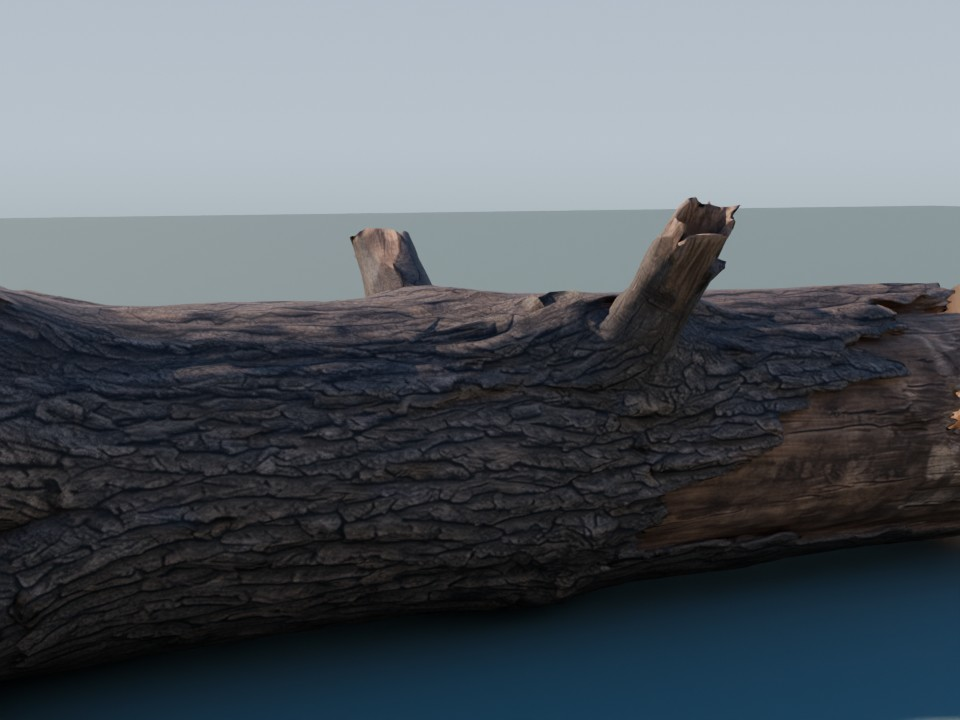
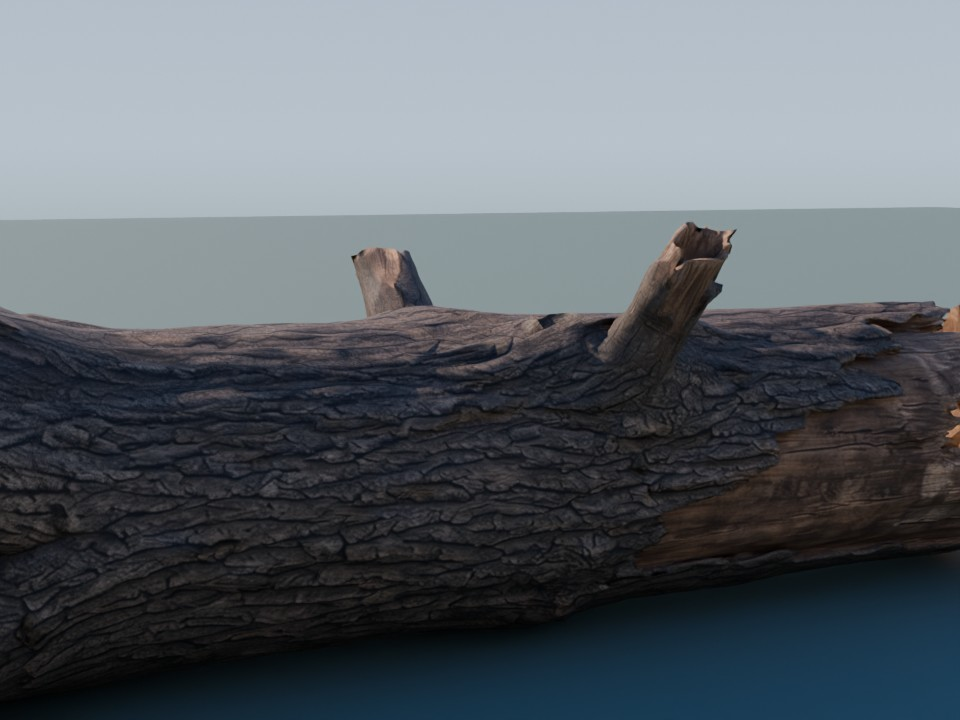
Refine fallen-log end cores

diff --git a/assets/vegetation/log_fallen_a/build.py b/assets/vegetation/log_fallen_a/build.py
@@ -9,7 +9,8 @@ deterministisch aus dem gepinnten Meshy-Rohmodell ableitbar.
 import os
 
 import bpy
-from mathutils import Matrix
+import bmesh
+from mathutils import Matrix, Vector
 import vrmeshy
 import vrmeshfix
 
@@ -29,6 +30,105 @@ def _stretch_x(objs, factor):
     bpy.ops.object.transform_apply(location=True, rotation=True, scale=True)
 
 
+def _seal_plug_center(plug, axis, sign, segments):
+    """Close the tiny centre triangle and sector-boundary gaps of a cavity plug.
+
+    make_cavity_plug uses three off-centre knot vertices for relief.  Without
+    these few bridge faces the fan leaves narrow triangular gaps that read as
+    exactly the black holes the gate criticised.  Kept asset-local so the other
+    already reviewed repair sheets remain hash-stable.
+    """
+    if plug is None:
+        return
+    bm = bmesh.new()
+    bm.from_mesh(plug.data)
+    verts = list(bm.verts)
+    need = 2 * segments + 3
+    if len(verts) >= need:
+        ring0 = segments
+        centers = [verts[2 * segments + k] for k in range(3)]
+
+        def ring(j):
+            return verts[ring0 + (j % segments)]
+
+        def assignment(j):
+            return ((j * 3) // segments) % 3
+
+        new_faces = []
+        for j in range(segments):
+            prev_k = assignment((j - 1) % segments)
+            cur_k = assignment(j)
+            if cur_k != prev_k:
+                try:
+                    new_faces.append(bm.faces.new((ring(j), centers[prev_k], centers[cur_k])))
+                except ValueError:
+                    pass
+        try:
+            new_faces.append(bm.faces.new(tuple(centers)))
+        except ValueError:
+            pass
+        uv_layer = bm.loops.layers.uv.active
+        if uv_layer is not None:
+            for f in new_faces:
+                for loop in f.loops:
+                    loop[uv_layer].uv = Vector((0.48, 0.48))
+        desired = Vector((0.0, 0.0, 0.0))
+        desired[axis] = float(sign)
+        for f in bm.faces:
+            if f.normal.dot(desired) < 0.0:
+                f.normal_flip()
+    bm.to_mesh(plug.data)
+    plug.data.update()
+    bm.free()
+
+
+def _retexture_plug_endgrain(plug, axis, segments, uv_center=(0.664, 0.707), uv_radius=0.030):
+    """Map the planar plug coherently onto a light fibrous wood patch of the atlas."""
+    if plug is None:
+        return
+    bm = bmesh.new()
+    bm.from_mesh(plug.data)
+    uv_layer = bm.loops.layers.uv.active
+    if uv_layer is not None and len(bm.verts) >= 2 * segments:
+        verts = list(bm.verts)
+        other = [i for i in range(3) if i != axis]
+        outer = [v.co for v in verts[:segments]]
+        center = sum((Vector((c[other[0]], c[other[1]])) for c in outer), Vector((0.0, 0.0))) / len(outer)
+        maxr = max(((Vector((c[other[0]], c[other[1]])) - center).length for c in outer), default=1.0)
+        for f in bm.faces:
+            for loop in f.loops:
+                co = loop.vert.co
+                d = (Vector((co[other[0]], co[other[1]])) - center) / max(maxr, 1e-6)
+                loop[uv_layer].uv = Vector(uv_center) + d * uv_radius
+    bm.to_mesh(plug.data)
+    plug.data.update()
+    bm.free()
+
+
+def _roughen_plug(plug, axis, sign, segments, amplitude, seed):
+    """Turn the flat sealing disc into a small splintered end-core surface."""
+    if plug is None:
+        return
+    import math
+    axis = int(axis)
+    for vi, v in enumerate(plug.data.vertices):
+        if vi < 2 * segments:
+            ring = vi // segments
+            j = vi % segments
+        else:
+            ring = 2
+            j = (vi - 2 * segments) * max(1, segments // 3)
+        weight = (0.22, 0.68, 1.0)[ring]
+        wave = (0.52 * math.sin(j * 1.91 + seed) +
+                0.31 * math.sin(j * 4.73 + seed * 1.37) +
+                0.17 * math.cos(j * 7.11 - seed))
+        v.co[axis] += sign * amplitude * weight * (0.55 + 0.45 * wave)
+        # The round sealing core must not inflate the reviewed target bounds
+        # or poke through the ground merely because the cavity is irregular.
+        v.co.z = min(1.68, max(0.0, v.co.z))
+    plug.data.update()
+
+
 def build():
     objs = vrmeshy.load_raw(ASSET_DIR)
     vrmeshy.drop_loose(objs, min_fraction=0.02)
@@ -46,12 +146,16 @@ def build():
     # no longer reads as a bottomless paper shell.
     plugs = [
         vrmeshfix.make_cavity_plug(main, axis=0, sign=+1, inset=0.00,
-                                   radial_scale=1.10, segments=36,
-                                   slice_frac=0.13, name="endcore_pos", relief=0.030, circular=True),
+                                   radial_scale=1.05, segments=36,
+                                   slice_frac=0.13, name="endcore_pos", relief=0.036, circular=True),
         vrmeshfix.make_cavity_plug(main, axis=0, sign=-1, inset=0.00,
-                                   radial_scale=1.06, segments=36,
-                                   slice_frac=0.13, name="endcore_neg", relief=0.026, circular=True),
+                                   radial_scale=1.02, segments=36,
+                                   slice_frac=0.13, name="endcore_neg", relief=0.032, circular=True),
     ]
+    for plug, sign, amp, seed in ((plugs[0], +1, 0.045, 1.9), (plugs[1], -1, 0.038, 4.2)):
+        _seal_plug_center(plug, axis=0, sign=sign, segments=36)
+        _retexture_plug_endgrain(plug, axis=0, segments=36)
+        _roughen_plug(plug, axis=0, sign=sign, segments=36, amplitude=amp, seed=seed)
     main = vrmeshfix.join_into(main, [p for p in plugs if p is not None])
     objs = [main]
 
